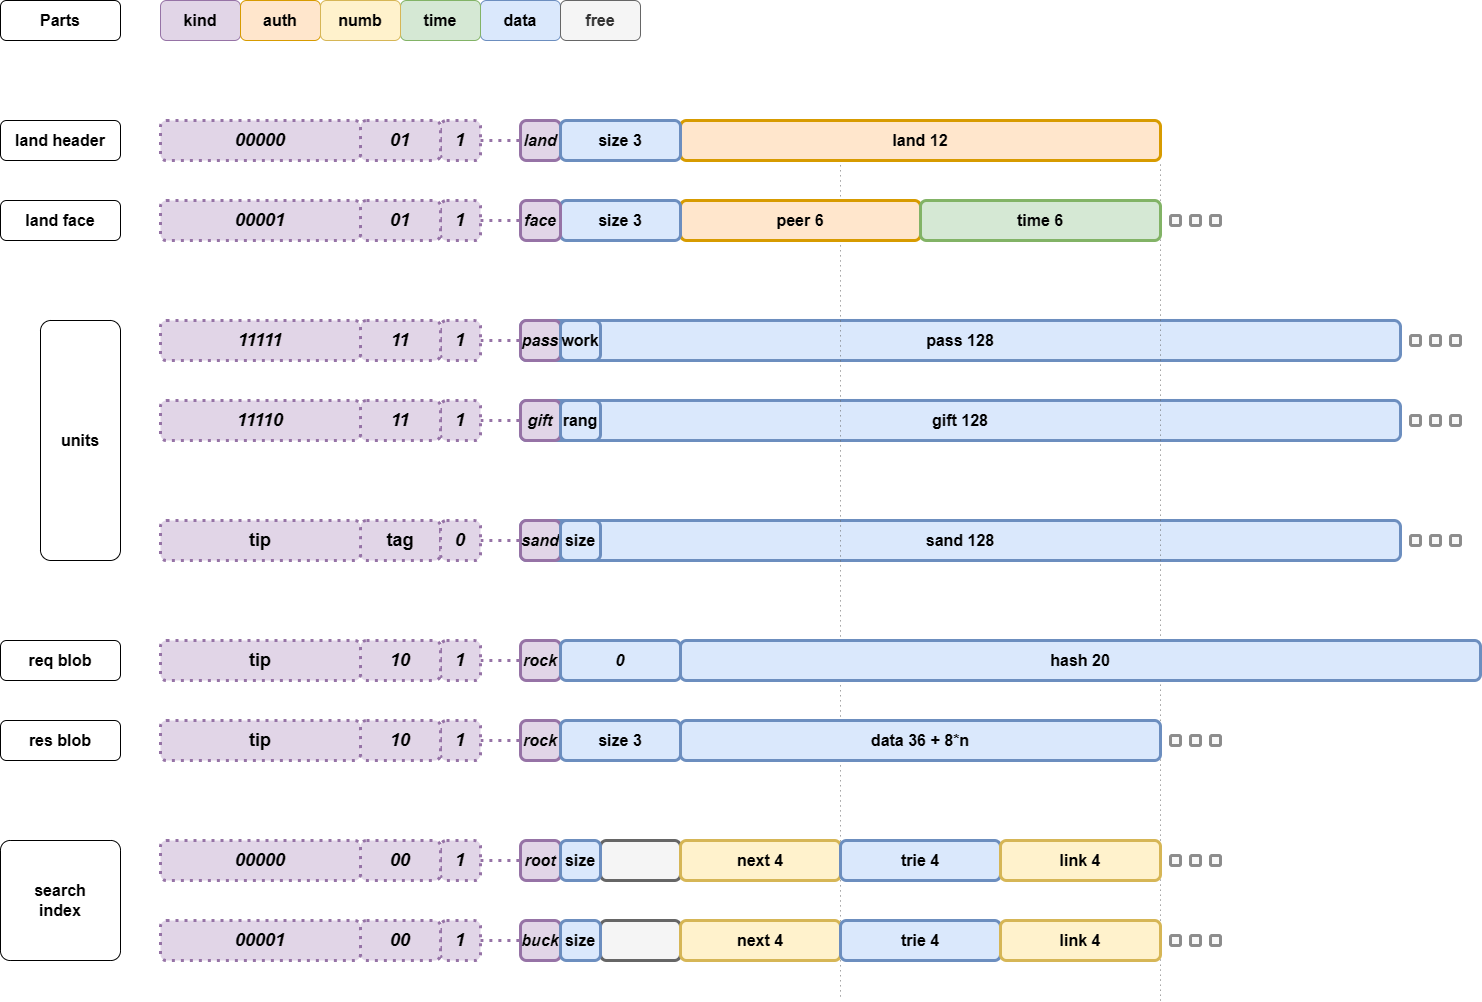
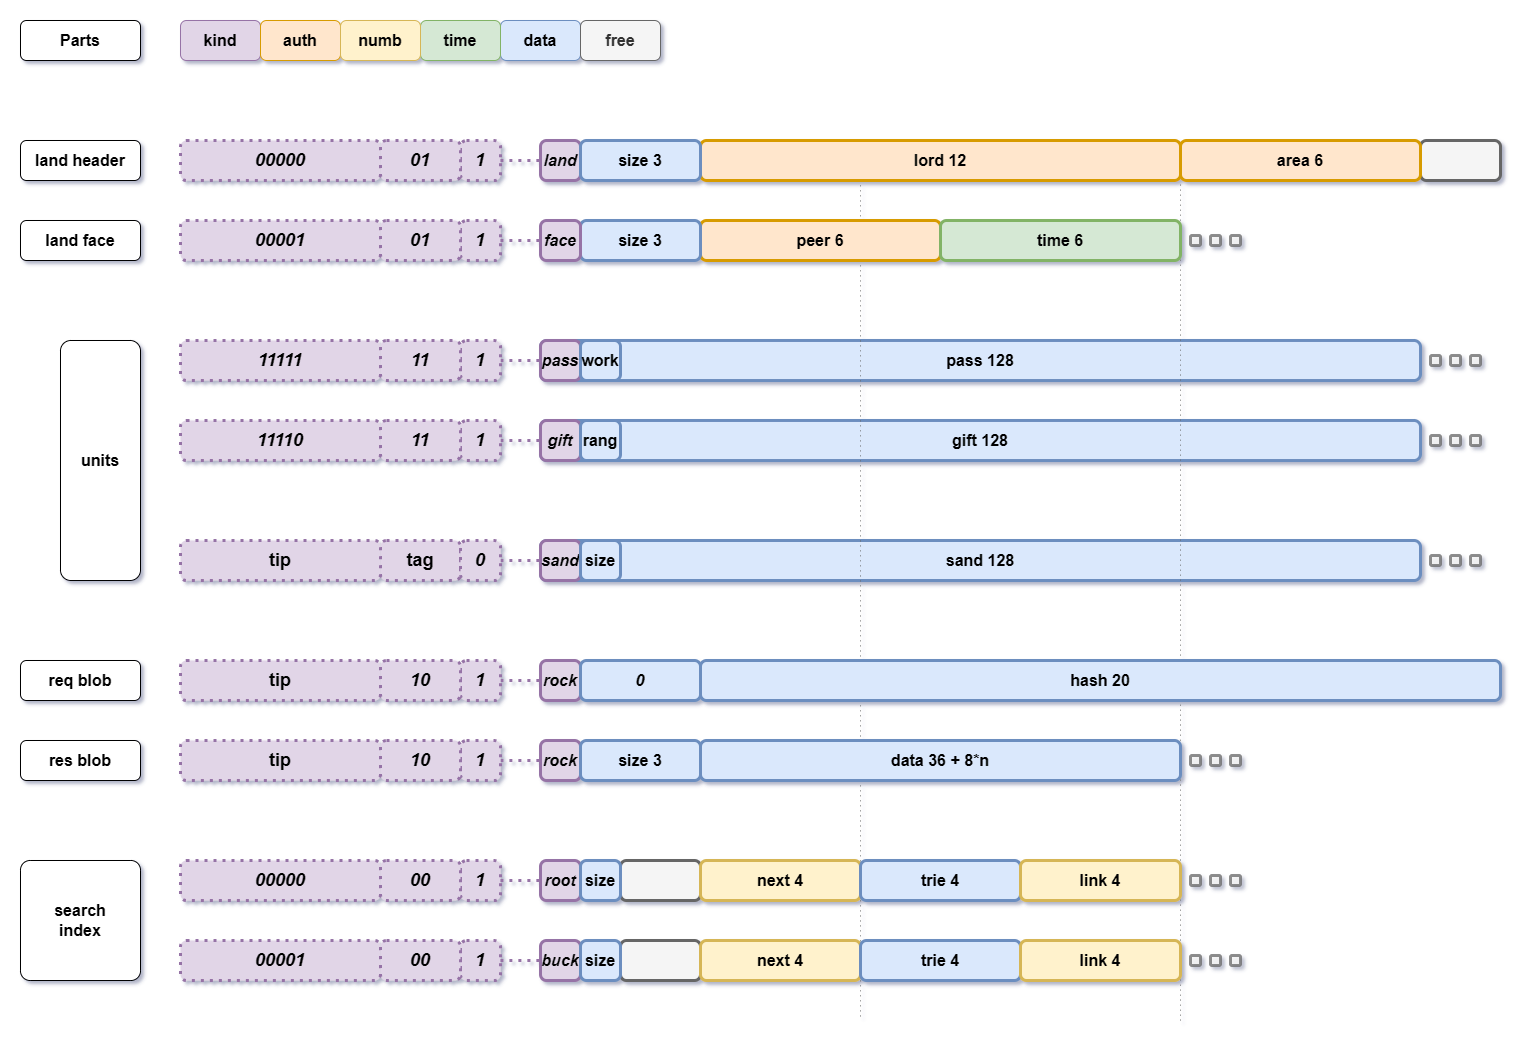
hold news until save

diff --git a/node/node.ts b/node/node.ts
@@ -71,21 +71,42 @@ namespace $ {
 			const land = this.land()
 			let last = 0
 			
-			const map = {
-				term: ()=> null,
-				solo: ()=> land.Node( $hyoo_crus_atom_vary ),
-				vals: ()=> land.Node( $hyoo_crus_list_vary ),
-				keys: ()=> land.Node( $hyoo_crus_dict ),
-			}
-			
 			const visit = ( sand: $hyoo_crus_sand )=> {
 				if( sand.time() > last ) last = sand.time()
-				map[ sand.tag() ]()?.Item( sand.self() ).units().forEach( visit )
+				if( sand.tag() === 'term' ) return
+				land.Node( $hyoo_crus_node ).Item( sand.self() ).units().forEach( visit )
 			}
-			for( const sand of this.units() ) visit( sand )
+			this.units().forEach( visit )
 			
-			return last ? new $mol_time_moment( last ) : null
+			return last ? $hyoo_crus_time_moment( last ) : null
 			
+		}
+		
+		/** All author Peers of Node subtree */
+		@ $mol_mem
+		author_peers() {
+			
+			const land = this.land()
+			const peers = new Set< string >()
+			
+			const visit = ( sand: $hyoo_crus_sand )=> {
+				peers.add( sand.peer() )
+				if( sand.tag() === 'term' ) return
+				land.Node( $hyoo_crus_node ).Item( sand.self() ).units().forEach( visit )
+			}
+			this.units().forEach( visit )
+			
+			return [ ... peers ]
+			
+		}
+		
+		/** All author Lords of Node subtree */
+		@ $mol_mem
+		author_lords() {
+			const land = this.land()
+			return this.author_peers()
+				.map( peer => land.pass.get( peer )?.lord() )
+				.filter( $mol_guard_defined )
 		}
 		
 		;[ $mol_dev_format_head ]() {

diff --git a/face/face.ts b/face/face.ts
@@ -6,7 +6,7 @@ namespace $ {
 	export class $hyoo_crus_face_map extends Map< string, number > {
 		
 		/** Maximum time for all peers. */
-		last = 0
+		last_time = 0
 		
 		/** Total units count in Land. */
 		total = 0
@@ -30,7 +30,7 @@ namespace $ {
 			time: number,
 		) {
 			
-			if( this.last < time ) this.last = time
+			if( this.last_time < time ) this.last_time = time
 			
 			let prev = this.get( peer ) ?? 0
 			if( prev < time ) this.set( peer, time )
@@ -40,14 +40,19 @@ namespace $ {
 		/** Generates new time for peer that greater then other seen. */
 		@ $mol_action
 		tick() {
-			return this.last = Math.max( this.last + 1, Math.floor( Date.now() * 65.536 ) )
+			return this.last_time = Math.max( this.last_time + 1, Math.floor( Date.now() * 65.536 ) )
+		}
+		
+		/** Last change moment */
+		last_moment() {
+			return $hyoo_crus_time_moment( this.last_time )
 		}
 		
 		[ $mol_dev_format_head ]() {
 			
 			return $mol_dev_format_span( {} ,
 				$mol_dev_format_native( this ) ,
-				$mol_dev_format_shade( ' ', $hyoo_crus_time_dump( this.last ) ) ,
+				$mol_dev_format_shade( ' ', $hyoo_crus_time_dump( this.last_time ) ) ,
 				$mol_dev_format_shade( ' #', this.total ) ,
 			)
 			

diff --git a/yard/yard.ts b/yard/yard.ts
@@ -8,7 +8,7 @@ namespace $ {
 			return null! as $hyoo_crus_glob
 		}
 		
-		lands_neonatals = new $mol_wire_set< $hyoo_crus_ref >()
+		lands_news = new $mol_wire_set< $hyoo_crus_ref >()
 		
 		static masters = [] as string[]
 		
@@ -113,18 +113,28 @@ namespace $ {
 		
 		@ $mol_mem
 		sync() {
-			this.sync_neonatals()
+			this.sync_news()
 			this.sync_port()
 		}
 		
 		@ $mol_mem
-		sync_neonatals() {
-			for( const port of this.ports() ) {
-				for( const land of this.lands_neonatals ) {
-					this.sync_port_land([ port, land ])
+		sync_news() {
+			
+			const glob = this.$.$hyoo_crus_glob
+			const lands = [ ... this.lands_news ].map( ref =>  glob.Land( ref ) )
+			
+			try {
+				for( const port of this.ports() ) {
+					for( const land of lands ) {
+						this.sync_port_land([ port, land.ref() ])
+					}
 				}
+				for( const land of lands ) land.saving()
+				this.lands_news.clear()
+			} catch( error ) {
+				$mol_fail_log( error )
 			}
-			this.lands_neonatals.clear()
+			
 		}
 		
 		@ $mol_mem

diff --git a/list/list.ts b/list/list.ts
@@ -198,10 +198,17 @@ namespace $ {
 					.map( ref => glob.Node( ref, Node ) ) as readonly any[] as Vals
 			}
 			
+			@ $mol_action
+			remote_add( item: Vals[number] ) {
+				this.add( item.ref() )
+			}
+			
 			/** Add new Node which placed in new Land */
 			@ $mol_action
-			remote_make( preset: $hyoo_crus_rank_preset ): Vals[number] {
-				const land = this.$.$hyoo_crus_glob.land_grab( preset )
+			remote_make( config: $hyoo_crus_rank_preset | $hyoo_crus_land ): Vals[number] {
+				const land = ( config instanceof $hyoo_crus_land )
+					? config.area_make()
+					: this.$.$hyoo_crus_glob.land_grab( config )
 				this.splice([ land.ref() ])
 				return land.Node( ( Value as any )() ).Item('')
 			}

diff --git a/home/home.ts b/home/home.ts
@@ -1,8 +1,7 @@
 namespace $ {
 
 	/** Land where Lord is King. Contains only ain info. */
-	export class $hyoo_crus_home extends $hyoo_crus_dict.with({
-		Title: $hyoo_crus_atom_str,
+	export class $hyoo_crus_home extends $hyoo_crus_entity.with({
 		Selection: $hyoo_crus_atom_str,
 		Hall: $hyoo_crus_atom_ref_to( ()=> $hyoo_crus_dict ),
 	}) {

diff --git a/land/land.ts b/land/land.ts
@@ -736,7 +736,7 @@ namespace $ {
 		}
 		
 		broadcast() {
-			this.$.$hyoo_crus_glob.yard().lands_neonatals.add( this.ref() )
+			this.$.$hyoo_crus_glob.yard().lands_news.add( this.ref() )
 		}
 		
 		@ $mol_mem
